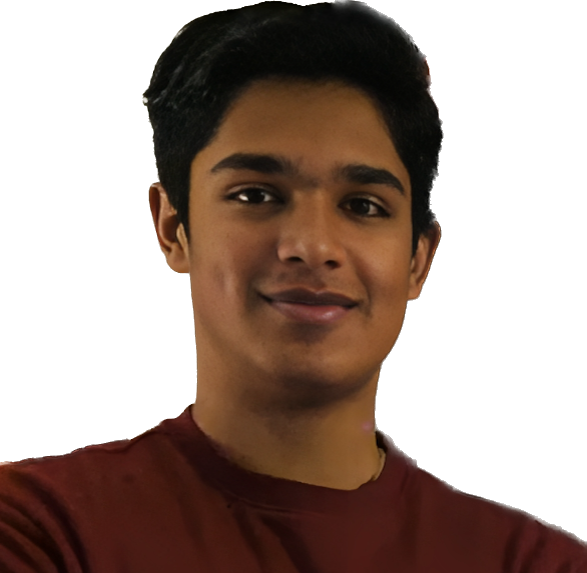
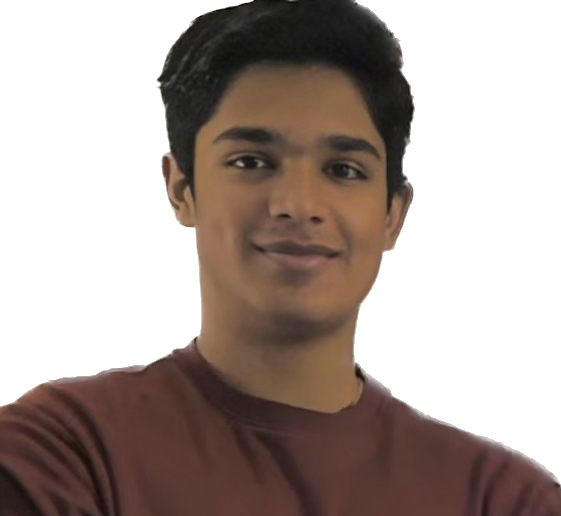
Added mobile support Changed melvin pic

diff --git a/frontend/src/Components/AboutUsPage.js b/frontend/src/Components/AboutUsPage.js
@@ -62,11 +62,13 @@ function AboutUsPage() {
 
             <div className="title-desc">
               <p>
-                Melvin Joseph '24 is a junior at Milton Academy. He is currently taking Adv CS: Applications and as a co-developer, he collaborated in
-                brainstorming this website while focusing on the backend. Some of his interests include economics, speech, and personal health, and in
-                his free time, he enjoys reading, making websites, and traveling.
+                Hey everyone! I’m <a target="_blank" href="https://www.linkedin.com/in/melvin-joseph-159010219">Melvin Joseph</a> ‘24, and I’m a junior at Milton Academy. As a
+                co-developer of Rate My Course, I helped brainstorm and developed the backend. I’m interested in creating educational solutions using
+                technology and economics. In my free time, I enjoy reading, competing in speech, and traveling!
               </p>
-              <p className="email"><span>melvin_joseph24@milton.edu</span></p>
+              <p className="email">
+                <span>melvin_joseph24@milton.edu</span>
+              </p>
             </div>
           </div>
         </div>

diff --git a/frontend/src/Components/AboutUsPage.css b/frontend/src/Components/AboutUsPage.css
@@ -99,7 +99,6 @@
   text-align: center;
   padding: 10px 8%;
   text-align: justify;
-
 }
 
 .about-us-page .developers .developer img {
@@ -107,4 +106,22 @@
   height: 30vw;
   border-radius: 15px;
   box-shadow: 0 0 10px 0 rgba(0, 0, 0, 0.2);
+  object-fit: cover;
+}
+
+@media screen and (max-width: 768px) {
+  .about-us-page .about-us-team .developers {
+    flex-direction: column;
+    align-items: center;
+  }
+
+  .about-us-page .developers .developer img {
+    width: 50vw;
+    height: 50vw;
+  }
+
+  .about-us-page .developers .developer p {
+    padding: 10px 0;
+    text-align: center;
+  }
 }
